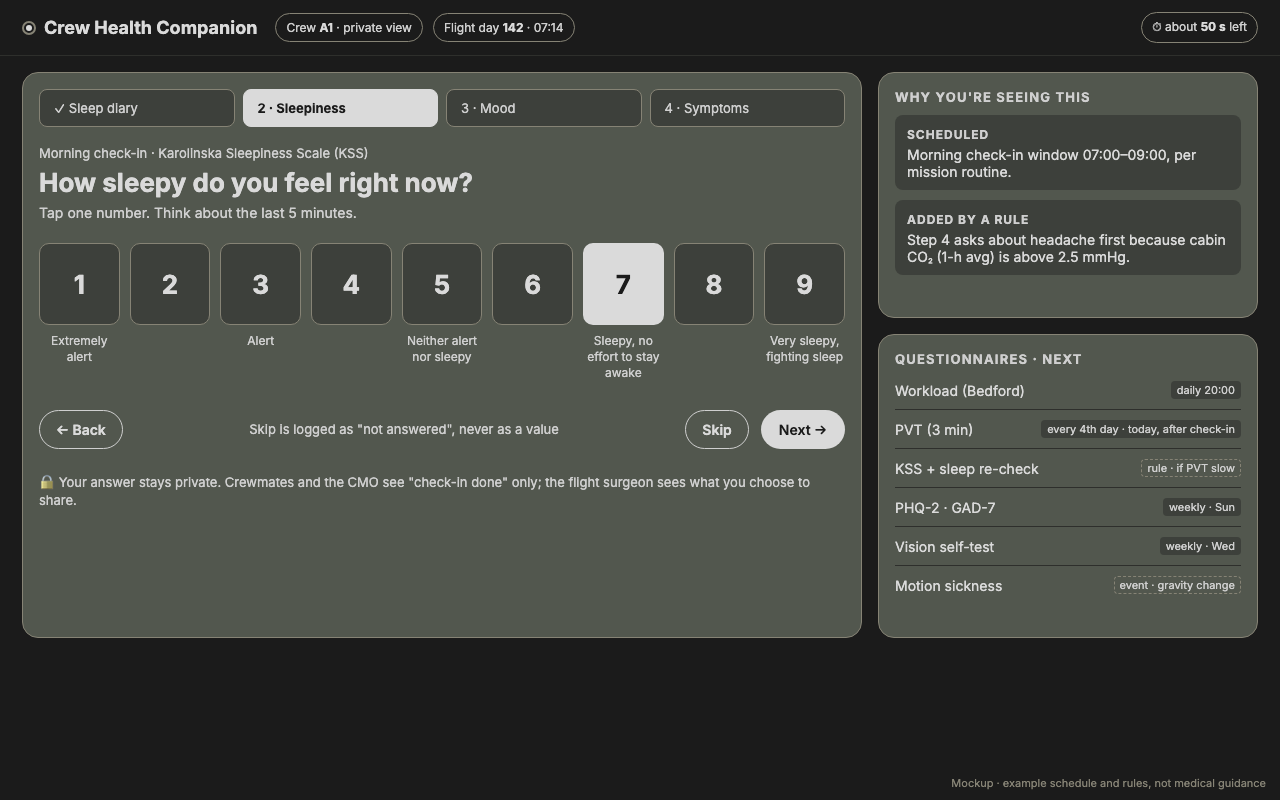
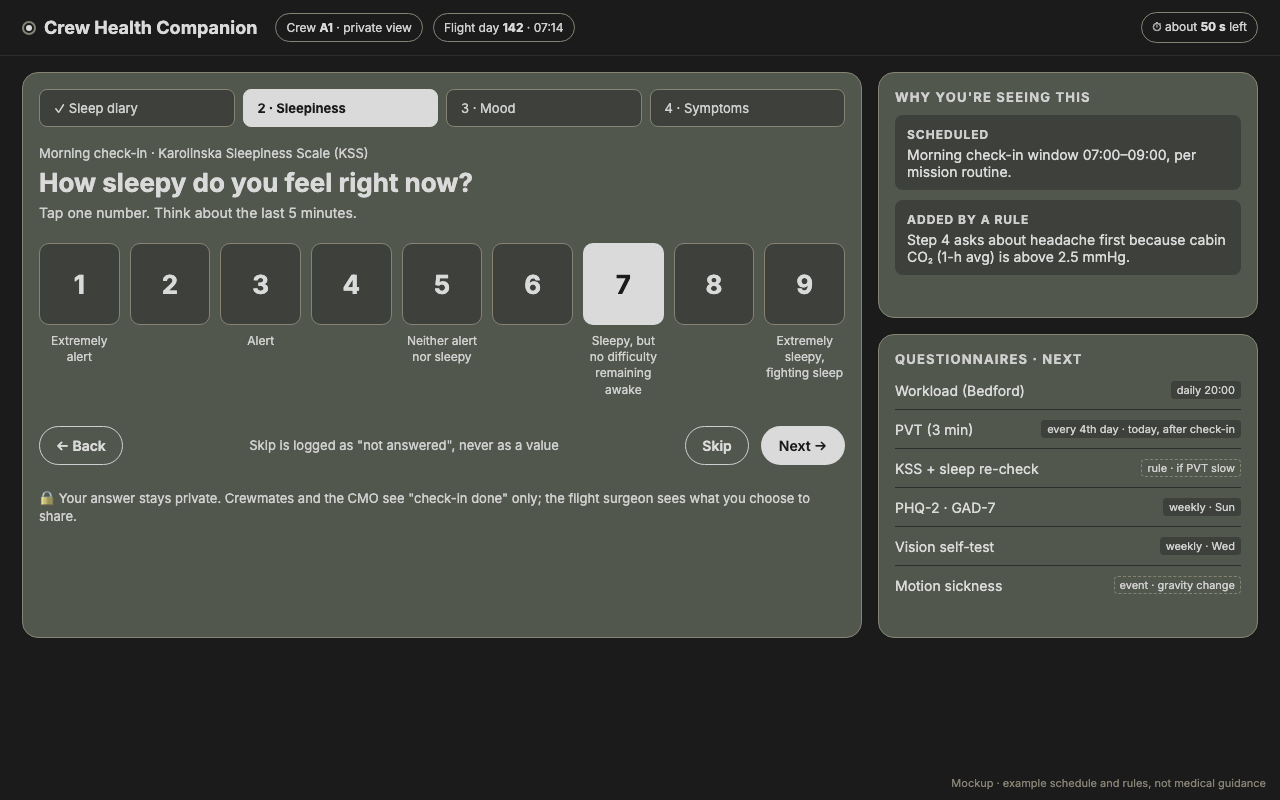
docs(checkin): KSS words from S56, feature status, guidelines and older docs follow the check-in screen (#29)

diff --git a/ideas/mockups/src/06-questionnaire.html b/ideas/mockups/src/06-questionnaire.html
@@ -21,7 +21,7 @@
 <div style="font-size:26px;font-weight:700;margin-top:6px">How sleepy do you feel right now?</div>
 <div style="font-size:14px;color:#CFCFCF;margin-top:6px">Tap one number. Think about the last 5 minutes.</div>
 <div class="nums"><div class="n">1</div><div class="n">2</div><div class="n">3</div><div class="n">4</div><div class="n">5</div><div class="n">6</div><div class="n on">7</div><div class="n">8</div><div class="n">9</div></div>
-<div class="an"><span>Extremely alert</span><span></span><span>Alert</span><span></span><span>Neither alert nor sleepy</span><span></span><span>Sleepy, no effort to stay awake</span><span></span><span>Very sleepy, fighting sleep</span></div>
+<div class="an"><span>Extremely alert</span><span></span><span>Alert</span><span></span><span>Neither alert nor sleepy</span><span></span><span>Sleepy, but no difficulty remaining awake</span><span></span><span>Extremely sleepy, fighting sleep</span></div>
 <div style="display:flex;align-items:center;margin-top:28px;gap:12px"><span class="btn2">← Back</span><span style="flex:1;text-align:center;font-size:13px;color:#CFCFCF">Skip is logged as "not answered", never as a value</span><span class="btn2">Skip</span><span class="btn" style="padding:11px 18px;font-size:14px">Next →</span></div>
 <div style="font-size:13px;color:#CFCFCF;margin-top:22px">🔒 Your answer stays private. Crewmates and the CMO see "check-in done" only; the flight surgeon sees what you choose to share.</div>
 </div>

diff --git a/ideas/ui-guidelines.md b/ideas/ui-guidelines.md
@@ -135,14 +135,14 @@ Inter for words, DM Mono for numbers (the canvas pairing). Both are bundled with
 - **Gaps:** 16 px between static cards (canvas 14 px, moved onto the 4 px grid); **18 px between touch targets**.
 - **Touch targets:** at least 52 × 52 px. On an iPad-class screen that is 10 mm, and 18 px is 3.4 mm, meeting NASA's 9.5 mm targets with 3.2 mm gaps [S2 §10.4.2.21]. The canvas's 44 px icon buttons keep their look but get a 52 px hit area.
 - **Radii:** 16 px cards and tiles, 12 px items inside a card (nav items), fully round pills and badges.
-- **Grid:** phone, one or two columns (canvas). Tablet and laptop, content at most 1200 px wide; the home screen shows three columns from 1200 px: the body-systems card (300 px), the Hazard lens card, and a 380 px column that holds Today's routine, Latest readings and the Check-in card, in that order (mockup 01). From 861 to 1199 px the Hazard lens card moves under the body-systems card, and at 860 px and below everything stacks, body systems first. Tile grids use tiles at least 150 px wide (two columns on a phone, like the canvas).
+- **Grid:** phone, one or two columns (canvas). Tablet and laptop, content at most 1200 px wide; the home screen shows three columns from 1200 px: the body-systems card (300 px), the Hazard lens card, and a 380 px column that holds Today's routine, Latest readings and the Reaction test card, in that order (mockup 01). From 861 to 1199 px the Hazard lens card moves under the body-systems card, and at 860 px and below everything stacks, body systems first. Tile grids use tiles at least 150 px wide (two columns on a phone, like the canvas).
 - **Critical information is visible without scrolling** [S1 V2 10037]; navigation is at most 2–3 levels deep.
 - **Motion:** 0.25 s colour transitions on theme change (canvas), none with `prefers-reduced-motion`. Nothing blinks or pulses.
 
 ## 5. Components
 
 ### App header
-Brand mark (28 px, not a button) on the left, wordmark "HEALTH" in the centre, icon buttons on the right: theme toggle (moon in light, sun in dark) and "Add entry" (+). Context pills sit in one wrapping row under it on every layout and screen: the connection pill, then the ground-link pill (#19). Crew and flight-day pills are not built.
+Brand mark (28 px, not a button) on the left, wordmark "HEALTH" in the centre, icon buttons on the right, 18 px apart: "Add entry" (+, Home only, opens the check-in; built: issue #29) and the theme toggle (moon in light, sun in dark). Context pills sit in one wrapping row under it on every layout and screen: the connection pill, then the ground-link pill (#19). Crew and flight-day pills are not built.
 
 ### Brand mark and splash
 - **Ring:** a 270° arc in `--color-ring` and a 60° arc in `--color-text`, round caps (canvas geometry). The arc was red on the canvas, then blue; blue now means level 1 only.
@@ -167,13 +167,13 @@ Brand mark (28 px, not a button) on the left, wordmark "HEALTH" in the centre, i
 ### Today's routine (built: issue #10)
 - **Card:** a `card` with the uppercase `card-heading` "Today's routine"; one row per item, separated by `--color-divider`. The right-hand text, words included, is one `.num` span.
 - **Upcoming and missed:** muted row with the window ("07:00–09:00") or "not answered", and no button.
-- **Due:** a 1 px `--color-todo` outline in `--radius-item`, no fill, and a secondary "Start · ~<estimate>" button (the screen's one primary button stays "Save check-in"). Never red or yellow.
+- **Due:** a 1 px `--color-todo` outline in `--radius-item`, no fill, and a secondary "Start · ~<estimate>" button that opens the check-in at `#/check-in`, where "Save check-in" is the primary (issue #29). Never red or yellow.
 - **Done:** "done HH:MM" with no glyph; ✓ stays Nominal.
 - **Placeholder row:** the label with a "synthetic" tag under it and the muted detail on the right; no state, button or glyph, the same at every time of day.
 - **PVT row** (issue #16): "done HH:MM" when a PVT was done today, otherwise muted "every 4th day"; no tag, no button (the Reaction test card starts it).
 
 ### Test screen (PVT, built: issue #16)
-- **Home card:** "Reaction test" between Latest readings and Check-in, with a secondary "Start reaction test" button (Check-in keeps the one primary).
+- **Home card:** "Reaction test" under Latest readings, with a secondary "Start reaction test" button; Home has no primary button since the check-in moved to its own screen (#29).
 - **Start screen:** what to do, "use the same device each time" (device latency affects RT, health-indicators §13), a primary "Start test" and an underlined "← Home".
 - **Running:** the time left ("2:41 left", `.num`) beside the heading; the target is an inset `button` at least 300 px high (`aria-label="Respond"`) with the counter in `.value` at `--text-hero`; "Too early" for a false start; a secondary "Stop". Space and a tap both respond.
 - **Result:** a two-column list (muted terms, numbers right) of median, lapses, false starts and responses, then the save line and one primary button.
@@ -233,7 +233,7 @@ Brand mark (28 px, not a button) on the left, wordmark "HEALTH" in the centre, i
 - **Structure:** a tile is the field. Its `<label>` wraps the uppercase label, the "/ unit" suffix and the input. The input is transparent DM Mono at value size, so the tile reads like a metric tile being filled in.
 - **Edge and focus:** a 1 px `--color-edge` border (3.20:1 light, 4.53:1 dark), and focus shows a 2 px `--color-focus` ring around the whole tile. Inside a card the tile is inset (`--color-inset`) and the edge switches to `--color-edge-on-surface` (3.57:1 light, 4.76:1 dark).
 - **Errors:** an icon plus a sentence under the field in `--color-text`. Never red or yellow.
-- **Questionnaires:** one question per screen, the instrument's own anchors, progress and time left, and "Skip" always allowed (see [crew-health-companion.md](crew-health-companion.md), "Rendering rules").
+- **Questionnaires (built: issue #29):** one question per screen, the instrument's own anchors, progress and time left, and "Skip" always allowed (see [crew-health-companion.md](crew-health-companion.md), "Rendering rules"). Step tabs show progress, not navigation (current step: 2 px `--color-text` outline, bold). Number questions use the field tile; an invalid value shows an info icon and "Enter … , or skip." in `--color-text` under it. Scales and checklists are 52 px+ buttons 18 px apart; the selection is the inverse fill, never a status colour.
 
 ### Level badge
 

diff --git a/ideas/features.md b/ideas/features.md
@@ -41,7 +41,7 @@ Each feature has: what it is, why it matters, how it works, an example, what it 
 - **How:** one question per screen, big buttons (fingers are clumsy in weightlessness), skip always allowed. A value can be typed or come from a (simulated) device.
 - **Example:** "Sleep last night: 5.5 h", "Mood: 3", "Symptoms: headache".
 - **Needs:** nothing.
-- **Status:** `CheckInForm` saves HR, SpO₂, sleep and mood. Missing: BP, temperature, symptom checklist, one-question-per-screen layout.
+- **Status:** the morning check-in is six steps at `#/check-in`, one question per screen (issue #29): heart rate, SpO₂, sleep hours, Karolinska Sleepiness Scale (KSS 1–9), mood 1–5 and a symptom checklist (headache, congestion, rash, neck or face swelling, back pain, or none). It opens from Today's routine "Start" or the header "+", shows progress and time left, and always allows Skip, saved as "not answered". Missing: BP, temperature, the full sleep diary.
 - **More:** idea file "Questionnaires and how they're triggered".
 
 #### F2. Works offline, sends later · Must · done
@@ -84,7 +84,7 @@ Each feature has: what it is, why it matters, how it works, an example, what it 
 - **Why:** it's the only objective, in-app measure of thinking speed, and ISS crews already do it. It's also the live moment of the demo.
 - **How:** a counter appears at random intervals (2–5 s) for 3 minutes; the app records reaction times, the median, "lapses" (≥ 355 ms) and false starts (< 130 ms) ([health-indicators.md](../research/health-indicators.md) §13 [S28][S30]).
 - **Needs:** F1 shell. Feeds F4.
-- **Status:** "Start reaction test" on home opens the 3-minute PVT-B at `#/pvt` (issue #16). It scores the median RT, lapses and false starts, and saves the result offline as a check-in labelled "in-app test", synced like any other. A "Reaction time" tile on home shows the latest median (stale after 4 days), and the routine's PVT row turns "done HH:MM". Stop, leaving the screen or going to the background saves nothing; a failed save offers "Try again". The result feeds rule COG-01, so a slow median flags Cognition (issue #17). Missing: KSS rating, ground-station storage of the PVT fields.
+- **Status:** "Start reaction test" on home opens the 3-minute PVT-B at `#/pvt` (issue #16). It scores the median RT, lapses and false starts, and saves the result offline as a check-in labelled "in-app test", synced like any other. A "Reaction time" tile on home shows the latest median (stale after 4 days), and the routine's PVT row turns "done HH:MM". Stop, leaving the screen or going to the background saves nothing; a failed save offers "Try again". The result feeds rule COG-01, so a slow median flags Cognition (issue #17). Missing: the rule-triggered KSS re-check (the KSS itself is asked in the morning check-in, issue #29), ground-station storage of the PVT fields.
 
 #### F8. Device Simulator · Must (3 devices, 2 scenarios)
 - **What:** a second app that pretends to be every sensor: wrist bracelet (live heart rate, plus a "dock & export" batch of sleep, resting HR and HRV), pulse oximeter, environment node (cabin CO₂, temperature, humidity, noise), dosimeter (radiation). We use no real hardware.
@@ -140,7 +140,7 @@ Each feature has: what it is, why it matters, how it works, an example, what it 
 - **How (48 h):** the morning check-in, the PVT, and one rule-triggered KSS + sleep re-check.
 - **Needs:** F1, F4.
 - **More:** idea file "Questionnaires and how they're triggered"; mockup [06-questionnaire.png](mockups/06-questionnaire.png).
-- **Status:** The 'Today's routine' card on home shows the Morning check-in (07:00–09:00, device time) as upcoming, due with Start, done HH:MM or not answered, from the stored check-ins (a PVT result doesn't count as the morning check-in). The PVT row is real: "done HH:MM" when a PVT was done today, otherwise "every 4th day" (issue #16). Exercise, fluids and Bedford are synthetic placeholder rows (`infrastructure/mockRoutine.ts`). Missing: rule-triggered KSS + sleep re-check, windows on the mission clock and sleep shift, bundling, reminder banner, '● 1 due' counter, body-map data-age note for a missed check-in.
+- **Status:** The 'Today's routine' card on home shows the Morning check-in (07:00–09:00, device time) as upcoming, due with Start (which opens the check-in at `#/check-in`, issue #29), done HH:MM or not answered, from the stored check-ins (a PVT result doesn't count as the morning check-in). The PVT row is real: "done HH:MM" when a PVT was done today, otherwise "every 4th day" (issue #16). Exercise, fluids and Bedford are synthetic placeholder rows (`infrastructure/mockRoutine.ts`). Missing: rule-triggered KSS + sleep re-check, windows on the mission clock and sleep shift, bundling, reminder banner, '● 1 due' counter, body-map data-age note for a missed check-in.
 
 #### F22. Check-and-act card · Must (4 cases)
 - **What:** on the detail screen of a flagged reading, three steps: (1) is the reading right? re-measure properly; (2) what in your own data may explain it (sleep, fluids, caffeine, cabin CO₂, symptoms); (3) what to do now, plus "Add to my next medical conference".

diff --git a/docs/features/10-todays-routine.md b/docs/features/10-todays-routine.md
@@ -1,8 +1,8 @@
 # #10 Today's routine card on home
 
-The "Today's routine" card on home lists what the crewmember has to do today. The Morning check-in row is real: it reads upcoming before 07:00, due from 07:00 with a "Start · ~1.5 min" button (it focuses the Heart rate field), "done HH:MM" once any check-in is saved today, and "not answered" from 09:00. State comes from the device clock and the stored check-ins, so it works offline and moves within 60 s of the clock. PVT, exercise, fluids and Bedford workload are synthetic placeholder rows (`src/main/frontend/src/infrastructure/mockRoutine.ts`) that look the same at every time of day. Feature F15 in [features.md](../../ideas/features.md); issue [#10](https://github.com/jdo-lv/galagans/issues/10).
+The "Today's routine" card on home lists what the crewmember has to do today. The Morning check-in row is real: it reads upcoming before 07:00, due from 07:00 with a "Start · ~90 s" button (it opens the check-in at `#/check-in`, [#29](29-check-in-questionnaire.md)), "done HH:MM" once any check-in is saved today, and "not answered" from 09:00. State comes from the device clock and the stored check-ins, so it works offline and moves within 60 s of the clock. PVT, exercise, fluids and Bedford workload are synthetic placeholder rows (`src/main/frontend/src/infrastructure/mockRoutine.ts`) that look the same at every time of day. Feature F15 in [features.md](../../ideas/features.md); issue [#10](https://github.com/jdo-lv/galagans/issues/10).
 
-**Try it:** `mvn clean verify`, then `mvn spring-boot:run`, open http://localhost:8080. Before 07:00 the row is upcoming, between 07:00 and 09:00 it is due; click "Start · ~1.5 min", then fill any field (or none) and click "Save check-in" to see "done HH:MM".
+**Try it:** `mvn clean verify`, then `mvn spring-boot:run`, open http://localhost:8080. Before 07:00 the row is upcoming, between 07:00 and 09:00 it is due; click "Start · ~90 s", which opens the check-in ([#29](29-check-in-questionnaire.md)); answer or skip the steps and click "Save check-in" to see "done HH:MM".
 
 **Retake the screenshots** with the app running: `target/node/node docs/features/10-todays-routine.shots.mjs` (script: [10-todays-routine.shots.mjs](10-todays-routine.shots.mjs)). It fixes the page's local clock to 2026-11-14 with an injected `Date`, and clears the stored check-ins before each shot. `APP_URL` points it at another server and `CDP_PORT` picks another DevTools port. All shots are 1280 px wide unless the heading says otherwise.
 
@@ -13,7 +13,7 @@ The row is muted and shows the window "07:00–09:00", with no button.
 ![Upcoming](img/10-upcoming.png)
 
 ### Due (clock 08:00, no check-ins)
-The row has the accent outline and a "Start · ~1.5 min" button.
+The row has the accent outline and a "Start · ~90 s" button.
 ![Due](img/10-due.png)
 
 ### Done (clock 08:00, mood 3 saved)
@@ -44,6 +44,6 @@ The card follows "Today's routine" in [01-body-map.png](../../ideas/mockups/01-b
 | No "KSS + sleep re-check" and no "Vision self-test (Wed)" row | Rule-triggered rows aren't built, and #4 already says the vision self-test was done Wednesday. |
 | No "✓" on done rows, no "☐" on open rows | In the status badge ✓ means Nominal; "done HH:MM" carries the meaning. |
 | Accent outline with no blue fill on the due row | ui-guidelines §2.3: due is neutral accent, and the outline passes 3:1 on the surface (§2.4). |
-| "Start · ~1.5 min" on the check-in row | The mockup's Start sits on the KSS row, which isn't built. |
+| "Start · ~90 s" on the check-in row | The mockup's Start sits on a rule-triggered KSS re-check row, which isn't built; the KSS is asked inside the morning check-in ([#29](29-check-in-questionnaire.md)). |
 | "synthetic" tags on placeholder rows | Data honesty: everything not measured is labelled. |
 | Right-hand text in DM Mono, 16 px text | ui-guidelines §3 (the mockups use smaller text). |

diff --git a/research/health-indicators.md b/research/health-indicators.md
@@ -381,7 +381,7 @@ Format per indicator: **Risk** (hazard), **Today** (ISS), **Next** (Artemis/Gate
 | Instrument | What | Time | Scoring / thresholds | Spaceflight use / caveats |
 |---|---|---|---|---|
 | PVT-B (3-min PVT) | Vigilant attention; random 2–5 s interval (sources differ: 1–4 s vs 2–5 s [S30]) | 3 min | Main: response speed (1/RT). Lapses RT ≥355 ms; false starts <130 ms [S28][S30] | ISS RST every 4th day, AM+PM [S28]. Device latency matters |
-| Karolinska Sleepiness Scale (KSS) | Momentary sleepiness, 1–9 (1 extremely alert … 9 very sleepy, fighting sleep) | ~10 s | ≥7 commonly read as "sleepy" (convention, unverified as validated cut-off); EEG-validated [S56] | RST uses 11-point sleepiness ratings instead [S28] |
+| Karolinska Sleepiness Scale (KSS) | Momentary sleepiness over the last 5 min, 1–9; words on the odd numbers only: 1 extremely alert, 3 alert, 5 neither alert nor sleepy, 7 sleepy, but no difficulty remaining awake, 9 extremely sleepy, fighting sleep [S56] | ~10 s | ≥7 commonly read as "sleepy" (convention, unverified as validated cut-off); EEG-validated [S56] | RST uses 11-point sleepiness ratings instead [S28] |
 | Samn-Perelli | Fatigue, 1 (fully alert) – 7 (completely exhausted) | ~10 s | ≥5 often triggers fatigue-risk review in aviation FRMS (unverified) | Not found in NASA operational use |
 | Bedford Workload Scale | Spare capacity, 1–10 decision tree | ~30 s | NASA limit: ≤3 nominal, ≤6 off-nominal tasks [V2 5007] [S13] | NASA's chosen verification scale |
 | NASA-TLX | Workload: mental, physical, temporal demand, performance, effort, frustration, 0–100 each | 1–3 min (weighted adds 15 pairwise choices) | Raw mean, or weighted (weights/15) → 0–100 [S57][S13] | Diagnostic; "may be preferred for developmental testing" [S13] |
@@ -548,7 +548,7 @@ Scores are judgment calls. Pick among close ranks (6–9) by the hardware on han
 - [S53] Space motion sickness during 24 Shuttle flights: https://researchexperts.utmb.edu/en/publications/space-motion-sickness-during-24-flights-of-the-space-shuttle/ ; Field Test: https://ntrs.nasa.gov/citations/20150022289
 - [S54] ESA, Periodic Fitness Evaluation: https://outpost42.esa.int/blog/diario-di-bordo/single/l-477-periodic-fitness/ ; ISS medical model incl. monthly PHS (2006): https://ntrs.nasa.gov/citations/20060051792
 - [S55] NASA SANS in-flight testing history: https://ntrs.nasa.gov/api/citations/20180004916/downloads/20180004916.pdf
-- [S56] KSS validation: https://www.ncbi.nlm.nih.gov/pmc/articles/PMC8889981/
+- [S56] KSS validation: Laverde-López, Escobar-Córdoba and Eslava-Schmalbach 2022, "Validation of the Colombian version of the Karolinska sleepiness scale", Sleep Science 15(Spec 1):97–104: https://pmc.ncbi.nlm.nih.gov/articles/PMC8889981/ (verified 2026-11-14; the English anchors are printed "neither alert not sleepy" and "extremely sleepyfighting sleep", typo and punctuation fixed in the KSS row).
 - [S57] NASA-TLX computerized manual (NASA Ames): https://ntrs.nasa.gov/api/citations/20000021487/downloads/20000021487.pdf
 - [S58] Inter-Noise 2021, ISS crew acoustic exposure: https://ntrs.nasa.gov/api/citations/20210016151/downloads/Inter-Noise2021_Paper2219_DRAFT%20Manuscript.pdf
 - [S59] CSA, Monitoring radiation for astronaut health (2026-02-26; verified 2026-11-13): https://www.asc-csa.gc.ca/eng/news/articles/2026/2026-02-26-monitoring-radiation-astronaut-health.asp

diff --git a/docs/features/1-spo2-core-loop.md b/docs/features/1-spo2-core-loop.md
@@ -2,14 +2,14 @@
 
 The crew app now interprets a check-in. Each saved SpO₂ value is checked on the tablet against rules SPO-01 (< 94 % → caution) and SPO-02 (< 90 % → warning) in `src/main/frontend/src/infrastructure/rules.json`. The "Body systems" panel shows the Respiratory status with what, why, how it was decided, what to do next and who to involve. It works offline, and the list is re-read after each save and every 60 s. Features F4, F5 and F6 in [features.md](../../ideas/features.md); issue [#1](https://github.com/jdo-lv/galagans/issues/1).
 
-**Try it:** `mvn clean verify`, then `mvn spring-boot:run`, open http://localhost:8080, enter an SpO₂ value and click "Save check-in". **Retake the screenshots** with the app running: `target/node/node docs/features/1-spo2-core-loop.shots.mjs` (script: [1-spo2-core-loop.shots.mjs](1-spo2-core-loop.shots.mjs)).
+**Try it:** `mvn clean verify`, then `mvn spring-boot:run`, open http://localhost:8080, click "+" (Add entry) in the header, type an SpO₂ value on its step, click "Next →" through the other steps and "Save check-in" on the last ([#29](29-check-in-questionnaire.md)). **Retake the screenshots** with the app running: `target/node/node docs/features/1-spo2-core-loop.shots.mjs` (script: [1-spo2-core-loop.shots.mjs](1-spo2-core-loop.shots.mjs)).
 
 ## Screens
 
 ### No data (nothing stored yet)
 ![No data](img/1-no-data.png)
 
-Since [#9](9-detail-screen.md) the explanation is no longer inline: a caution or warning row links to the detail screen, which shows it. The screenshots below predate that change.
+Since [#9](9-detail-screen.md) the explanation is no longer inline: a caution or warning row links to the detail screen, which shows it. Since [#29](29-check-in-questionnaire.md) values are entered through the check-in steps, not a form on home. The screenshots below predate both changes.
 
 ### Nominal (SpO₂ 96)
 Quiet: muted "✓ Nominal", no fill, no explanation.
@@ -44,4 +44,4 @@ Layout follows [01-body-map.png](../../ideas/mockups/01-body-map.png) ("Body sys
 | Text at least 16 px, inputs as field tiles, "Who to involve" as a pill and the rule id as a tag | Guidelines §3–§5 (NASA minimum text height; routing kept neutral and apart from urgency). The mockups use 11–14 px. |
 | Only Respiratory has rules; no body figure, hazard lens, routine or readings panels | Out of scope for #1. The nine synthetic rows below Respiratory in these screenshots come from [#4](4-body-systems-list.md). |
 | Explanation inline in the row, not a separate detail screen; tier shown as a value, not the 4-step ladder | The issue puts the texts in the row (AC4, AC6); the detail screen is out of scope. |
-| Check-in form in a right-hand "Check-in" panel with all fields on one screen | No mockup for the current form; 06-questionnaire (one question per screen) is a later feature. Fields use the guidelines' field tile and primary button. |
+| Values were entered in a right-hand "Check-in" panel with all fields on one screen | Replaced by the one-question-per-screen check-in of mockup 06 in [#29](29-check-in-questionnaire.md). |

diff --git a/docs/features/7-latest-readings.md b/docs/features/7-latest-readings.md
@@ -2,7 +2,7 @@
 
 The "Latest readings" card on home shows the crewmember's last SpO₂, heart rate, sleep and mood at a glance. Each tile shows the value with its unit, the data age and the source tag "manual". SpO₂ carries the same caution or warning badge as the Respiratory row. A value older than 24 h looks stale, and a field never entered shows "—". Blood pressure and cabin CO₂ have no input in the app yet, so they show fixed synthetic values labelled "synthetic" (`src/main/frontend/src/infrastructure/mockReadings.ts`). Everything works offline. Feature F6 in [features.md](../../ideas/features.md); issue [#7](https://github.com/jdo-lv/galagans/issues/7).
 
-**Try it:** `mvn clean verify`, then `mvn spring-boot:run`, open http://localhost:8080, fill in heart rate, SpO₂, sleep and mood and click "Save check-in". Saving only SpO₂ 92 or 88 changes the SpO₂ tile and keeps the other values.
+**Try it:** `mvn clean verify`, then `mvn spring-boot:run`, open http://localhost:8080, click "+" (Add entry) in the header and enter heart rate, SpO₂, sleep and mood on their steps, then "Save check-in" ([#29](29-check-in-questionnaire.md)). Saving only SpO₂ 92 or 88 changes the SpO₂ tile and keeps the other values.
 
 **Retake the screenshots** with the app running: `target/node/node docs/features/7-latest-readings.shots.mjs` (script: [7-latest-readings.shots.mjs](7-latest-readings.shots.mjs)). `APP_URL` points it at another server and `CDP_PORT` picks another DevTools port. These shots came from `npm run preview`, which doesn't serve `/api`, so the status bar shows check-ins waiting to sync. Headless Chrome followed the machine's dark theme. All shots are 1280 px wide unless the heading says otherwise.
 
@@ -42,8 +42,8 @@ The panel follows "Latest readings" in [01-body-map.png](../../ideas/mockups/01-
 
 | Deviation | Reason |
 |---|---|
-| Six tiles instead of four | Every check-in field gets a tile (heart rate, SpO₂, sleep, mood), plus the mockup's blood pressure and cabin CO₂. |
-| Placed above the Check-in card | There's no "Today's routine" panel yet. |
+| Six tiles instead of four | Heart rate, SpO₂, sleep and mood each get a tile, plus the mockup's blood pressure and cabin CO₂. The KSS and symptoms of the check-in ([#29](29-check-in-questionnaire.md)) have none. |
+| Placed under Today's routine and above the Reaction test card | The mockup's column; the Check-in card it once sat above left home in [#29](29-check-in-questionnaire.md). |
 | Label under the value | ui-guidelines §5 "Metric tile": value first, then label / data age, then the source tag. |
 | Tags "manual" and "synthetic" instead of "BLE · simulated", "bracelet · simulated" and "EDA replay" | Values come from manual check-ins and the #4 synthetic placeholders; there's no device or replay yet. |
 | Data age ("just now", "2 h ago") instead of "live" and "07:10" | Every reading shows its data age ([ux-human-factors.md](../../research/ux-human-factors.md) §1.1, V2 10020). |

diff --git a/docs/features/4-body-systems-list.md b/docs/features/4-body-systems-list.md
@@ -2,13 +2,13 @@
 
 The "Body systems" card on home lists all ten systems of mockup 01. Respiratory is the only system with rules (SPO-01/02, [#1](1-spo2-core-loop.md)), so it shows real check-in data. The other nine show fixed synthetic values from `src/main/frontend/src/infrastructure/mockStatuses.ts`, always "✓ Nominal", labelled "synthetic", with no data age and no explanation. When a rule row is added for one of those systems, its placeholder disappears and the real status takes its place. Feature F6 in [features.md](../../ideas/features.md); issue [#4](https://github.com/jdo-lv/galagans/issues/4).
 
-**Try it:** `mvn clean verify`, then `mvn spring-boot:run`, open http://localhost:8080, enter an SpO₂ value and click "Save check-in". **Retake the screenshots** with the app running: `target/node/node docs/features/4-body-systems-list.shots.mjs` (script: [4-body-systems-list.shots.mjs](4-body-systems-list.shots.mjs)).
+**Try it:** `mvn clean verify`, then `mvn spring-boot:run`, open http://localhost:8080, click "+" (Add entry) in the header, type an SpO₂ value on its step, click "Next →" through the other steps and "Save check-in" on the last ([#29](29-check-in-questionnaire.md)). **Retake the screenshots** with the app running: `target/node/node docs/features/4-body-systems-list.shots.mjs` (script: [4-body-systems-list.shots.mjs](4-body-systems-list.shots.mjs)).
 
 ## Screens
 
 Since [#17](17-cognition-rule.md) Cognition is no longer a placeholder: it comes from the PVT (rule COG-01) and shows "No data" until a test is done.
 
-Since [#9](9-detail-screen.md) the explanation is no longer inline: the Respiratory row links to its detail screen when it is in caution or warning. The screenshots below predate that change.
+Since [#9](9-detail-screen.md) the explanation is no longer inline: the Respiratory row links to its detail screen when it is in caution or warning. Since [#29](29-check-in-questionnaire.md) values are entered through the check-in steps, not a form on home. The screenshots below predate both changes.
 
 ### No check-ins yet
 Respiratory shows "No data"; the nine placeholders follow in mockup 01 order.

diff --git a/docs/features/14-hazard-lens.md b/docs/features/14-hazard-lens.md
@@ -2,7 +2,7 @@
 
 Home has a Hazard lens card between Body systems and the right column. It holds NASA's five HRP hazards as toggles, a caption and a body figure. Picking a hazard marks the Body systems rows and figure labels it affects (a bar on the side) and dims the rest. The caption says what the hazard does, which systems it affects, which checks watch it and the source. The lens never changes a status and never dims a caution or warning. The choice is remembered on the device. Features F12 and F6 (the figure) in [features.md](../../ideas/features.md); issue [#14](https://github.com/jdo-lv/galagans/issues/14).
 
-**Try it:** `mvn clean verify`, then `mvn spring-boot:run`, open http://localhost:8080. Enter SpO₂ 92, click "Save check-in", then click "Hostile/closed environment", "Gravity fields" and "Distance from Earth". Click a pressed hazard again to turn the lens off. **Retake the screenshots** with the app running: `target/node/node docs/features/14-hazard-lens.shots.mjs` ([script](14-hazard-lens.shots.mjs)); set `APP_URL` for another port.
+**Try it:** `mvn clean verify`, then `mvn spring-boot:run`, open http://localhost:8080. Enter SpO₂ 92 through "+" (Add entry) and the check-in steps ([#29](29-check-in-questionnaire.md)), then click "Hostile/closed environment", "Gravity fields" and "Distance from Earth". Click a pressed hazard again to turn the lens off. **Retake the screenshots** with the app running: `target/node/node docs/features/14-hazard-lens.shots.mjs` ([script](14-hazard-lens.shots.mjs)); set `APP_URL` for another port.
 
 ## Screens
 

diff --git a/docs/features/9-detail-screen.md b/docs/features/9-detail-screen.md
@@ -2,7 +2,7 @@
 
 A body system in caution or warning on Home is now a link (whole row, with a chevron). It opens a detail screen with the status and latest reading, a 7-day SpO₂ trend chart with the rule thresholds, the explanation (what, why it matters, how decided, source), what to do next and who to involve. It works offline: the detail reads the same rules and local check-ins as Home. The inline explanation that #1 put in the Home row is gone. Feature F5 in [features.md](../../ideas/features.md); issue [#9](https://github.com/jdo-lv/galagans/issues/9).
 
-**Try it:** `mvn clean verify`, then `mvn spring-boot:run`, open http://localhost:8080. Enter SpO₂ 92, click "Save check-in", then click the Respiratory row. Or open http://localhost:8080/#/systems/Respiratory directly. **Retake the screenshots** with the app running: `target/node/node docs/features/9-detail-screen.shots.mjs` ([script](9-detail-screen.shots.mjs)). The script writes a week of SpO₂ check-ins into IndexedDB so the chart has history.
+**Try it:** `mvn clean verify`, then `mvn spring-boot:run`, open http://localhost:8080. Enter SpO₂ 92 through "+" (Add entry) and the check-in steps ([#29](29-check-in-questionnaire.md)), then click the Respiratory row. Or open http://localhost:8080/#/systems/Respiratory directly. **Retake the screenshots** with the app running: `target/node/node docs/features/9-detail-screen.shots.mjs` ([script](9-detail-screen.shots.mjs)). The script writes a week of SpO₂ check-ins into IndexedDB so the chart has history.
 
 ## Screens
 

diff --git a/ideas/crew-health-companion.md b/ideas/crew-health-companion.md
@@ -247,7 +247,7 @@ Instruments, timing and scoring come from [health-indicators.md](../research/hea
 
 - **One question per screen,** large touch targets (NASA guidance: ≥ 9.5 mm targets with 3.2 mm gaps) and large text, because fine motor accuracy drops early in flight and many crew see less sharply ([ux-human-factors.md](../research/ux-human-factors.md)).
 - **Progress and time left** are always visible; a session never surprises the crew with its length.
-- **The wording and anchors** are the instrument's own (e.g. KSS 1 "extremely alert" … 9 "very sleepy, fighting sleep"). They're never paraphrased, so scores stay comparable.
+- **The wording and anchors** are the instrument's own (e.g. KSS 1 "extremely alert" … 9 "extremely sleepy, fighting sleep", from [S56] in health-indicators.md). They're never paraphrased, so scores stay comparable.
 - **"Why you're seeing this"** shows the trigger: scheduled or added by a rule.
 - **Skip is always allowed** and recorded as "not answered", never as a value. Missed sessions don't nag: at most one reminder, then the data age shows on the body map.
 - **The privacy note is per questionnaire:** mood, PHQ and GAD answers are visible to the astronaut and the flight surgeon only, never to crewmates.

diff --git a/docs/features/19-surgeon-packet.md b/docs/features/19-surgeon-packet.md
@@ -42,7 +42,7 @@ Deviations from mockup 03, all decided in the issue:
 
 | Deviation | Reason |
 |---|---|
-| No FHIR panel, no "Review & edit", no crew or flight-day pills, no symptoms row | Out of scope: FHIR is F24 (pitch only), the check-in has no symptom input yet (F1), roles and flight day are F20/F21. |
+| No FHIR panel, no "Review & edit", no crew or flight-day pills, no symptoms row | Out of scope: FHIR is F24 (pitch only), the symptom checklist of the check-in ([#29](29-check-in-questionnaire.md)) isn't in the packet yet, roles and flight day are F20/F21. |
 | The contents card is the next packet; the timeline card is the last packet sent | One screen state: Send always builds a new packet from the live draft. |
 | Unrated rows show "—" (Not rated), never "Nominal" | No rule row judges heart rate, sleep or mood yet, so calling them nominal would claim a judgement no rule made. Reaction time became rated on its own when COG-01 (#17) arrived. |
 | The tier is a separate neutral pill under the rule tag | ui-guidelines §5 "Level badge": urgency is the colour, who acts is a separate neutral pill. |
